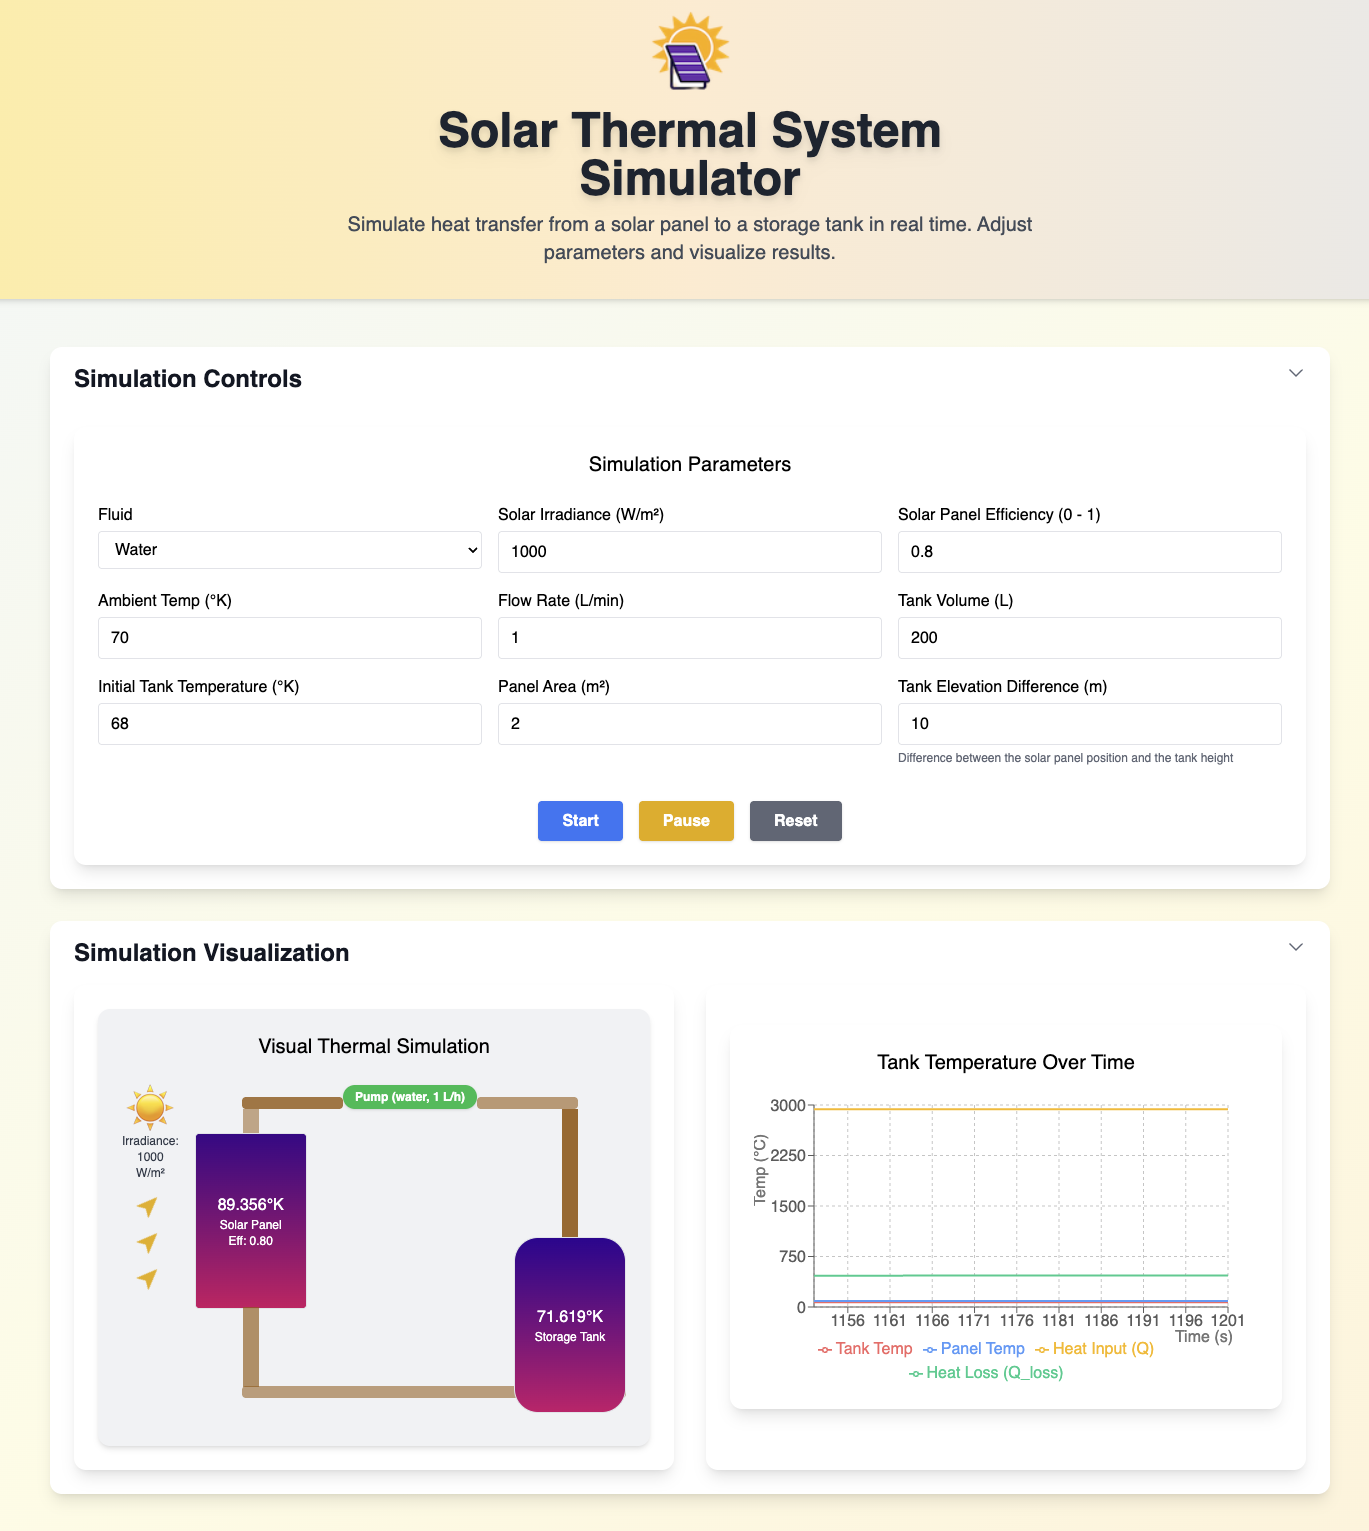
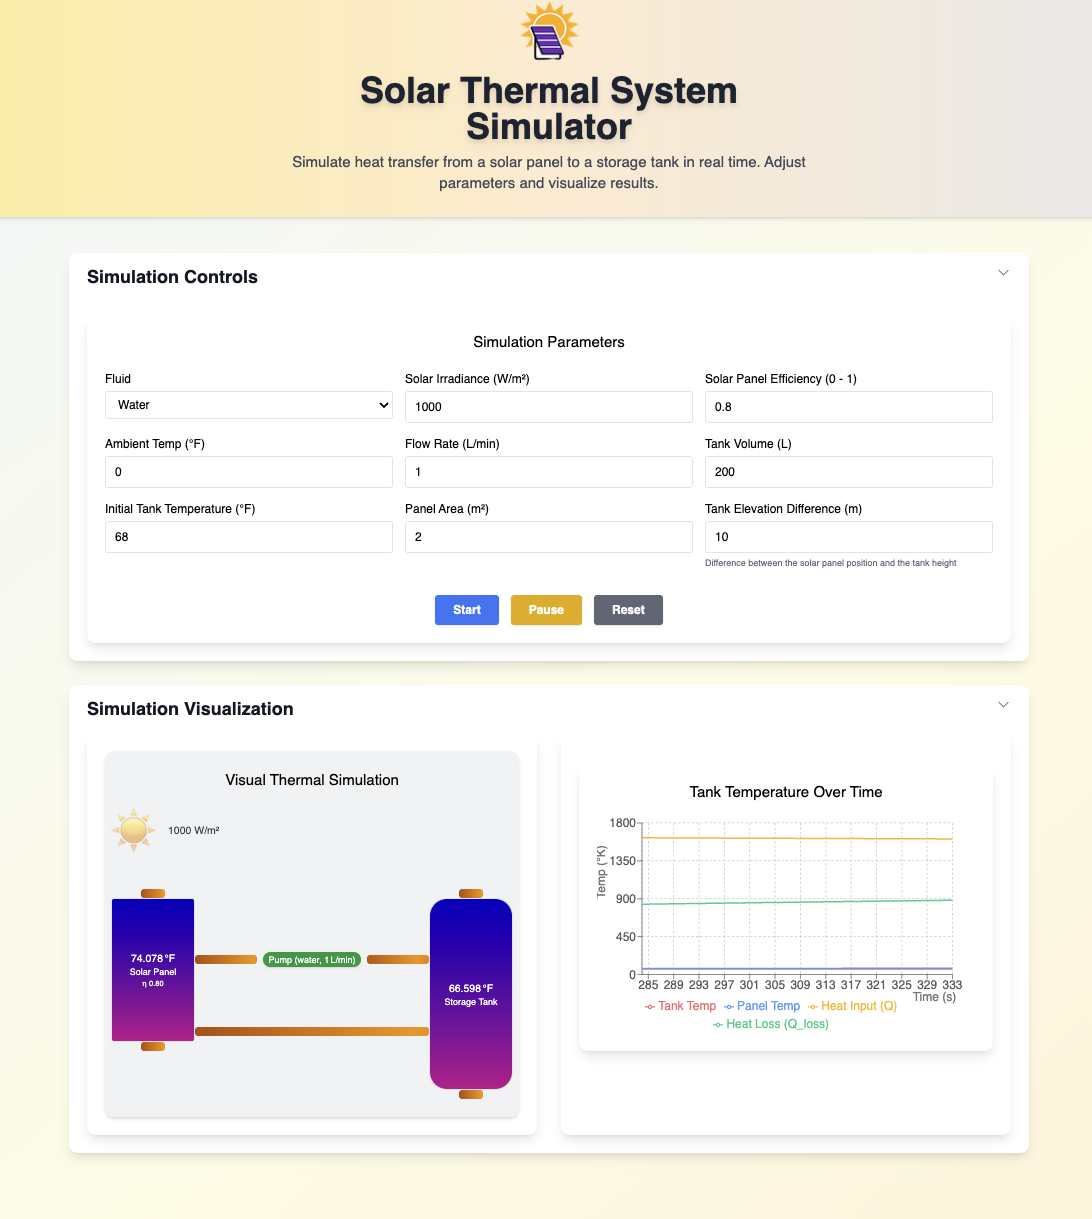
logic and image update

diff --git a/src/components/ThermalSystem.tsx b/src/components/ThermalSystem.tsx
@@ -18,84 +18,75 @@ export const ThermalSystem: React.FC<ThermalSystemProps> = ({
   flowRate,
   efficiency,
 }) => {
-  const getGradient = (temp: number) => {
-    const clamped = Math.min(Math.max(temp, START_TEMP), MAX_TEMP);
-    const ratio = clamped / MAX_TEMP;
-
-    const redTop = Math.floor(255 * ratio);
-    const blueTop = Math.floor(200 * (1 - ratio));
-
-    const redBottom = Math.floor(200 + 55 * ratio);
-    const blueBottom = Math.floor(150 * (1 - ratio));
-
-    return `linear-gradient(to top, rgb(${redBottom}, 0, ${blueBottom}), rgb(${redTop}, 0, ${blueTop}))`;
+  const tempGradient = (T: number) => {
+    const clamp = Math.min(Math.max(T, START_TEMP), MAX_TEMP);
+    const r = Math.floor((255 * clamp) / MAX_TEMP);
+    const b = Math.floor(200 * (1 - clamp / MAX_TEMP));
+    return `linear-gradient(to top, rgb(${200 + (55 * clamp) / MAX_TEMP},0,${
+      150 * (1 - clamp / MAX_TEMP)
+    }), rgb(${r},0,${b}))`;
   };
 
+  const pipe = 'h-3 bg-flow-gradient bg-[length:200%_100%] animate-flow rounded';
+
   return (
-    <div className="px-1 md:px-6 py-6 bg-gray-100 rounded-xl shadow-md w-full max-w-6xl mx-auto">
+    <div className="px-2 py-6 bg-gray-100 rounded-xl shadow-md w-full max-w-5xl mx-auto">
       <h2 className="text-xl font-medium mb-6 text-center">Visual Thermal Simulation</h2>
 
-      {/* Sun + solar rays */}
-      <div className="flex items-start gap-0 md:gap-4 mb-6">
-        <div className="flex flex-col items-center">
-          <div className="text-yellow-500 text-3xl md:text-5xl animate-pulse">☀</div>
-          <p className="text-xs text-gray-700 text-center">
-            Irradiance: <br />
-            {irradiance} W/m²
-          </p>
-          <div className="flex flex-col mt-2 gap-1 text-yellow-500 text-sm md:text-2xl">
-            <span className="-rotate-45 animate-pulse">➤</span>
-            <span className="-rotate-45 animate-pulse">➤</span>
-            <span className="-rotate-45 animate-pulse">➤</span>
+      {/* Sun & irradiance */}
+      <div>
+        <div className="flex justify-start items-center gap-4 mb-12">
+          <span className="text-4xl md:text-6xl animate-pulse">☀</span>
+          <span className="text-sm text-gray-700">{irradiance} W/m²</span>
+        </div>
+      </div>
+      {/* Main schematic row */}
+      <div className="flex items-end gap-0 w-full">
+        {/* Panel column */}
+        <div className="flex flex-col items-center self-start">
+          {/* Top connection stub */}
+          <div className={pipe + ' w-8'} />
+          <div
+            className="w-14 md:w-28 h-48 border rounded text-white flex flex-col items-center justify-center"
+            style={{ background: tempGradient(panelTemp) }}
+          >
+            <span className="text-xs md:text-sm">{panelTemp.toFixed(3)} °F</span>
+            <span className="text-[10px] md:text-xs">Solar Panel</span>
+            <span className="text-[10px]">η {efficiency.toFixed(2)}</span>
+          </div>
+          {/* Bottom return stub */}
+          <div className={pipe + ' w-8'} />
+        </div>
+
+        {/* Pipes + pump block */}
+        <div className="flex-1 flex flex-col gap-[5rem] self-center items-stretch min-h-fit">
+          {/* Top pipe with pump (panel ➜ tank) */}
+          <div className="flex items-center w-full">
+            <div className={pipe + ' flex-1'} />
+            <div className="hidden sm:block mx-2 bg-green-600 text-white px-2 py-0.5 text-[10px] md:text-xs rounded-full shadow">
+              Pump ({fluid}, {flowRate} L/min)
+            </div>
+            <div className={pipe + ' flex-1 hidden sm:block'} />
+          </div>
+          {/* Bottom pipe (tank ➜ panel) */}
+          <div className="flex w-full justify-between">
+            <div className={pipe + ' flex-1'} />
           </div>
         </div>
 
-        {/* System Block */}
-        <div className="flex flex-col w-full gap-0">
-          {/* Top pipe with pump */}
-          <div className="flex items-end justify-between w-full lg:max-w-sm self-end">
-            <div className="h-3 bg-flow-gradient bg-[length:200%_100%] animate-flow relative overflow-hidden flex-1 rounded" />
-            <div className="hidden md:flex bg-green-500 text-white px-3 py-1 text-xs font-bold rounded-full shadow items-center justify-center">
-              <p>
-                Pump ({fluid}, {flowRate} L/h)
-              </p>
-            </div>
-            <div className="hidden md:block h-3 bg-flow-gradient bg-[length:200%_100%] animate-flow relative overflow-hidden flex-1 rounded md:mr-12" />
+        {/* Tank column */}
+        <div className="flex flex-col items-center self-end">
+          {/* Top stub */}
+          <div className={pipe + ' w-8'} />
+          <div
+            className="w-14 md:w-28 h-64 border rounded-3xl text-white flex flex-col items-center justify-center"
+            style={{ background: tempGradient(tankTemp) }}
+          >
+            <span className="text-xs md:text-sm">{tankTemp.toFixed(3)} °F</span>
+            <span className="text-[10px] md:text-xs">Storage Tank</span>
           </div>
-
-          {/* Main row: panel and tank */}
-          <div className="flex justify-between items-end w-full gap-10 z-10">
-            {/* Solar Panel */}
-            <div className="flex flex-col items-center self-start">
-              <div className="w-4 h-6 bg-flow-gradient bg-[length:200%_100%] animate-flow relative overflow-hidden mb-0 mt-0" />
-              <div
-                className="mb-[-2px] mt-0 w-12 md:w-28 h-44 border rounded text-white flex flex-col items-center justify-center"
-                style={{ background: getGradient(panelTemp) }}
-              >
-                <span>{panelTemp.toFixed(3)}°F</span>
-                <span className="text-xs">Solar Panel</span>
-                <span className="text-xs">Eff: {efficiency.toFixed(2)}</span>
-              </div>
-              <div className="w-4 h-20 bg-flow-gradient bg-[length:200%_100%] animate-flow relative overflow-hidden mt-0" />
-            </div>
-
-            {/* Storage Tank */}
-            <div className="flex flex-col items-center">
-              <div className="w-4 h-32 bg-flow-gradient bg-[length:200%_100%] animate-flow relative overflow-hidden mb-0 mt-0" />
-              <div
-                className="mb-[-2px] mt-0 w-12 md:w-28 h-44 border rounded-3xl text-white flex flex-col items-center justify-center"
-                style={{ background: getGradient(tankTemp) }}
-              >
-                <span>{tankTemp.toFixed(3)}°F</span>
-                <span className="text-xs">Storage Tank</span>
-              </div>
-            </div>
-          </div>
-
-          {/* Bottom return pipe: tank → panel */}
-          <div className="flex justify-end w-full relative mt-[-25px] lg:max-w-sm self-end">
-            <div className="h-3 bg-flow-gradient bg-[length:200%_100%] animate-flow relative overflow-hidden flex-1 rounded" />
-          </div>
+          <div className={pipe + ' w-8'} />
+          {/* Return stub aligns visually with bottom pipe */}
         </div>
       </div>
     </div>
